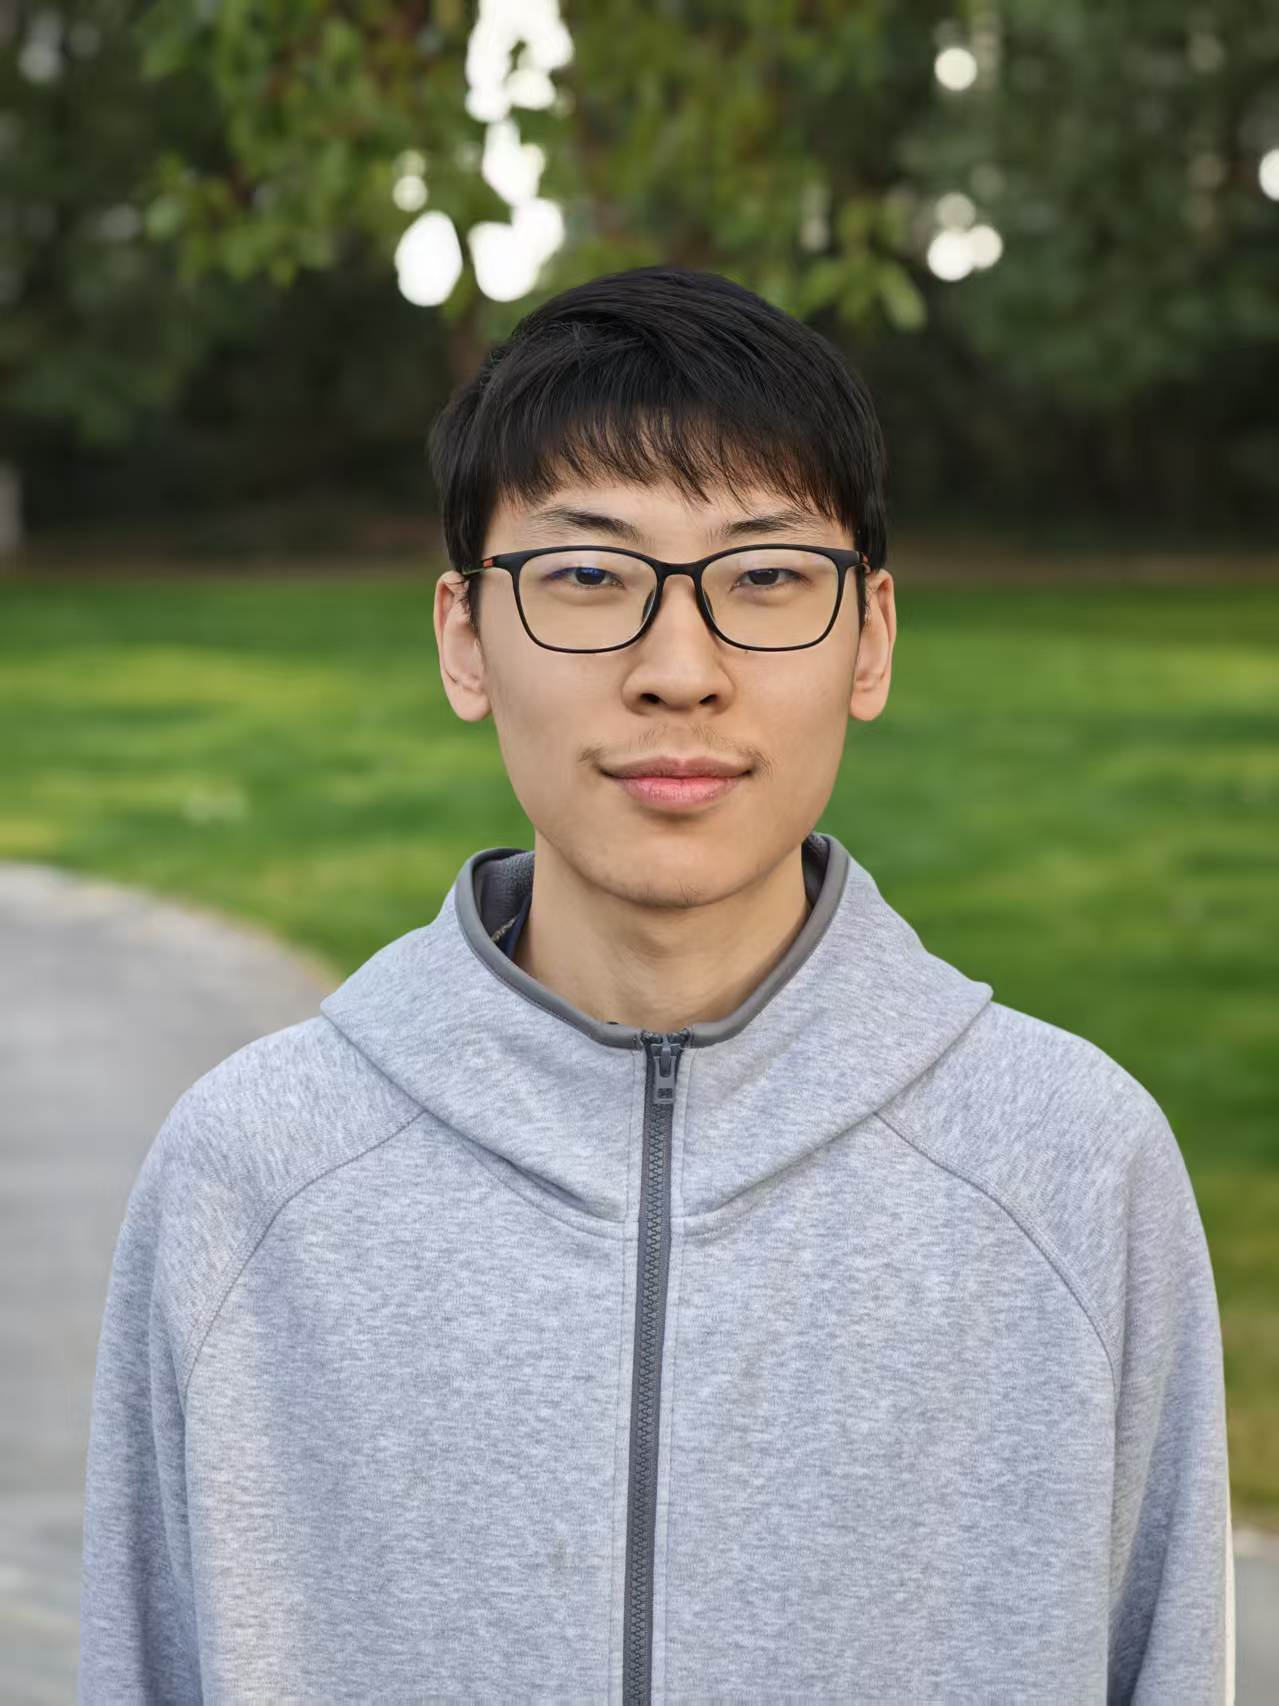
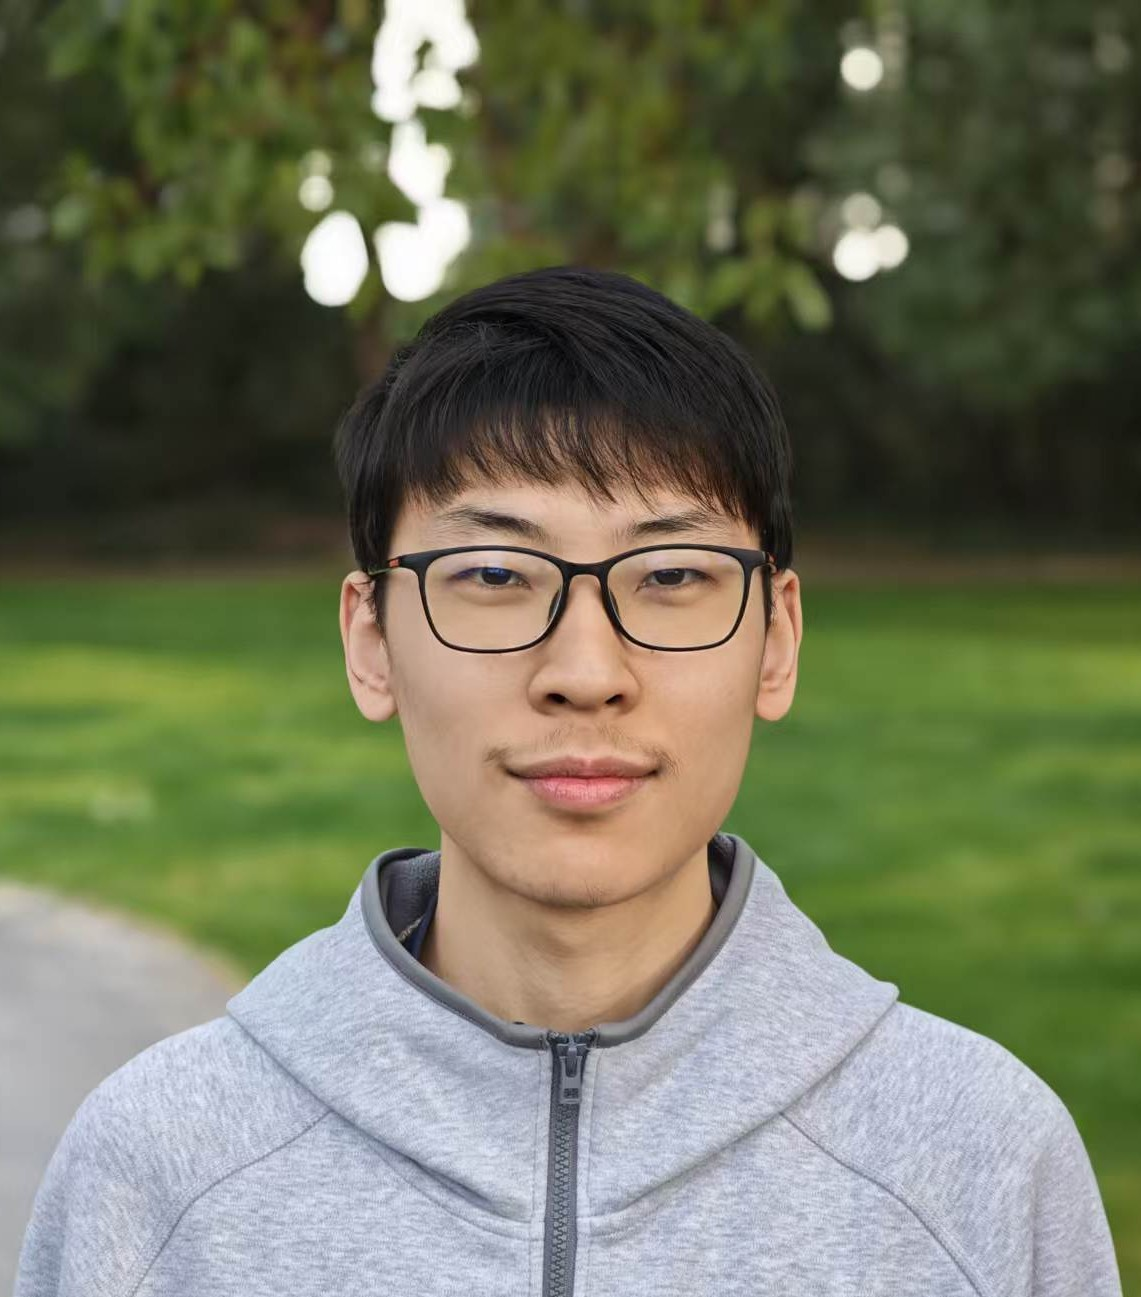
update

diff --git a/_pages/about.md b/_pages/about.md
@@ -30,7 +30,7 @@ Put your address / P.O. box / other info right below your picture. You can also 
 Link to your social media connections, too. This theme is set up to use [Font Awesome icons](https://fontawesome.com/) and [Academicons](https://jpswalsh.github.io/academicons/), like the ones below. Add your Facebook, Twitter, LinkedIn, Google Scholar, or just disable all of them. -->
 
 I am **Yiran Zhang** (张贻然), a senior undergraduate student at **Tsinghua University**.  
-My current research interests lie in **optimization** and **deep learning theory**, and I am fortunate to be advised by Prof. **[Simon Shaolei Du](https://simonshaoleidu.com/)** and Prof. **[Kaifeng Lyu](https://kaifeng.ac/)**.
+My current research interests lie in **optimization** and **deep learning**, and I am fortunate to be advised by Prof. **[Simon Shaolei Du](https://simonshaoleidu.com/)** and Prof. **[Kaifeng Lyu](https://kaifeng.ac/)**.
 
 Earlier in my undergraduate journey, I also worked extensively in **theoretical computer science**, where I was fortunate to be advised by Prof. **[Jian Li](https://people.iiis.tsinghua.edu.cn/~jianli/)** and Prof. **[Nicole Wein](https://eecs.engin.umich.edu/people/wein-nicole/)**.
 
